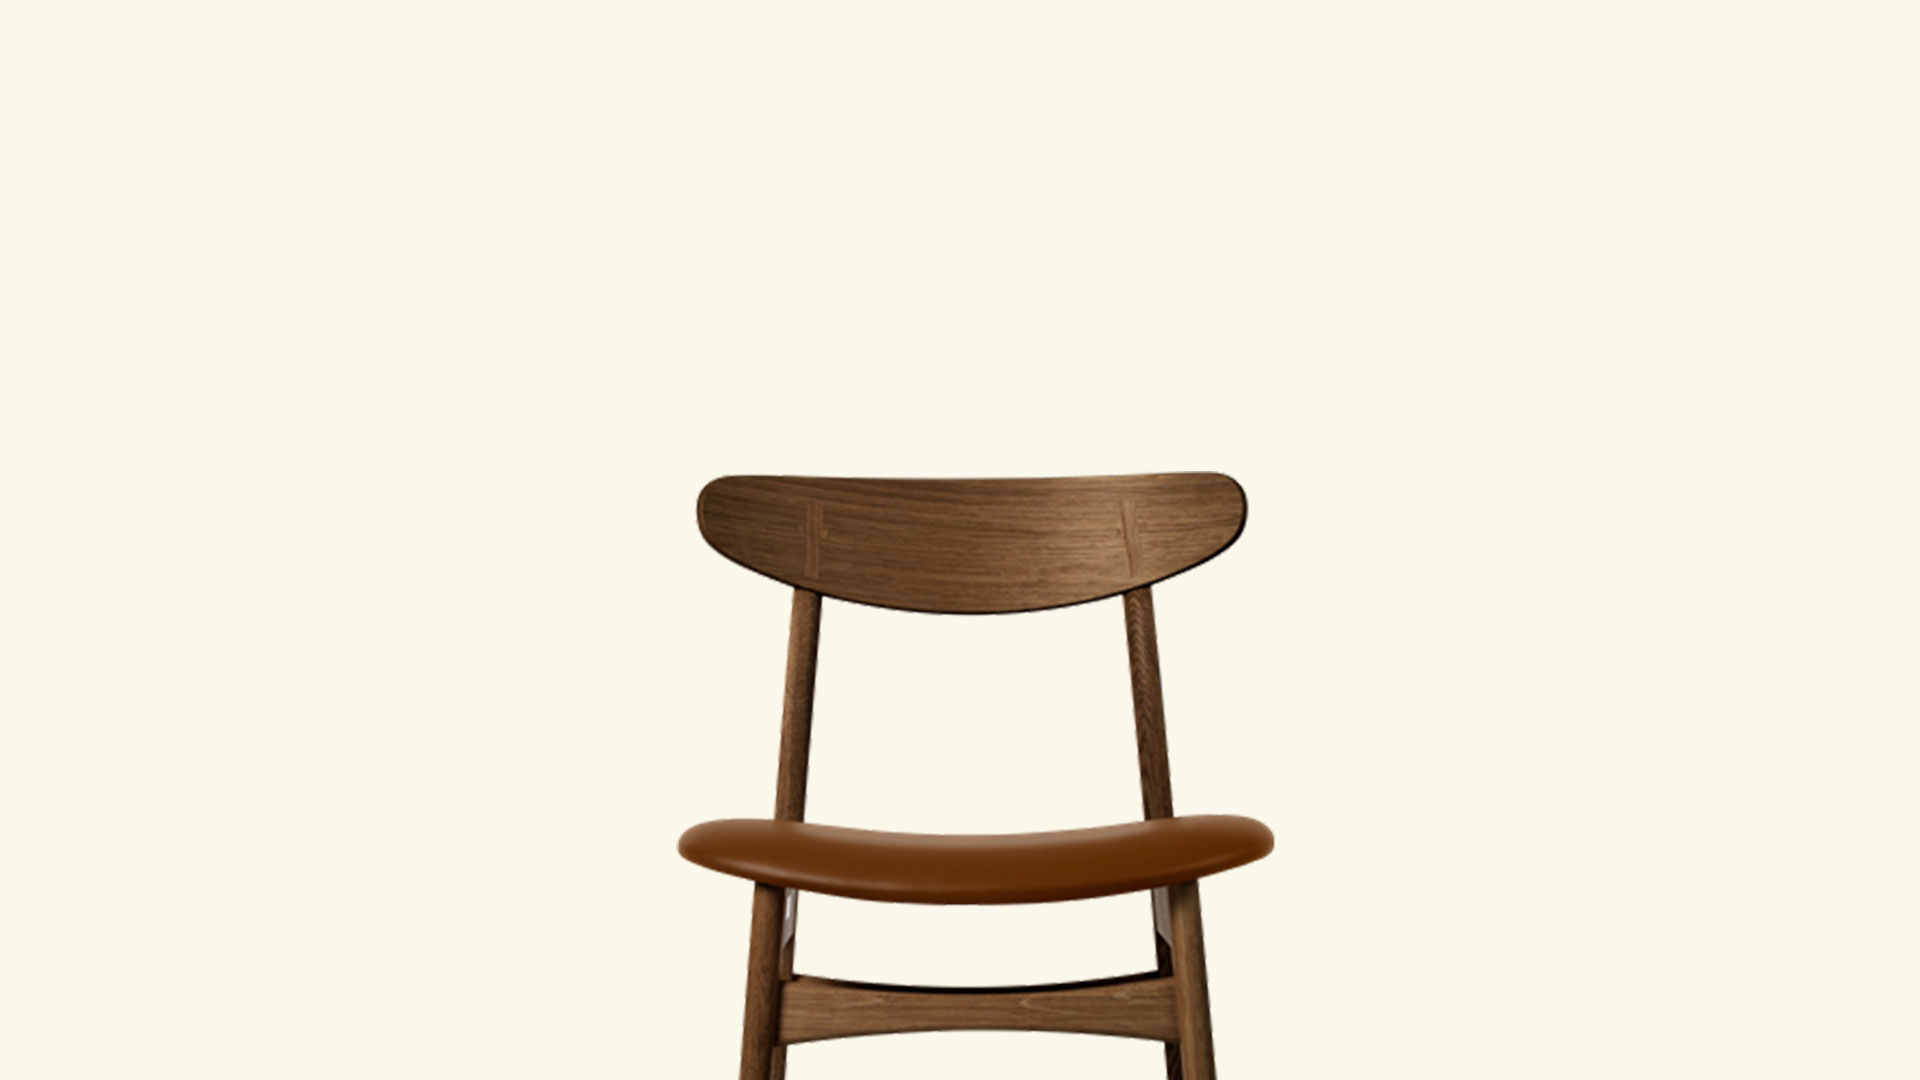
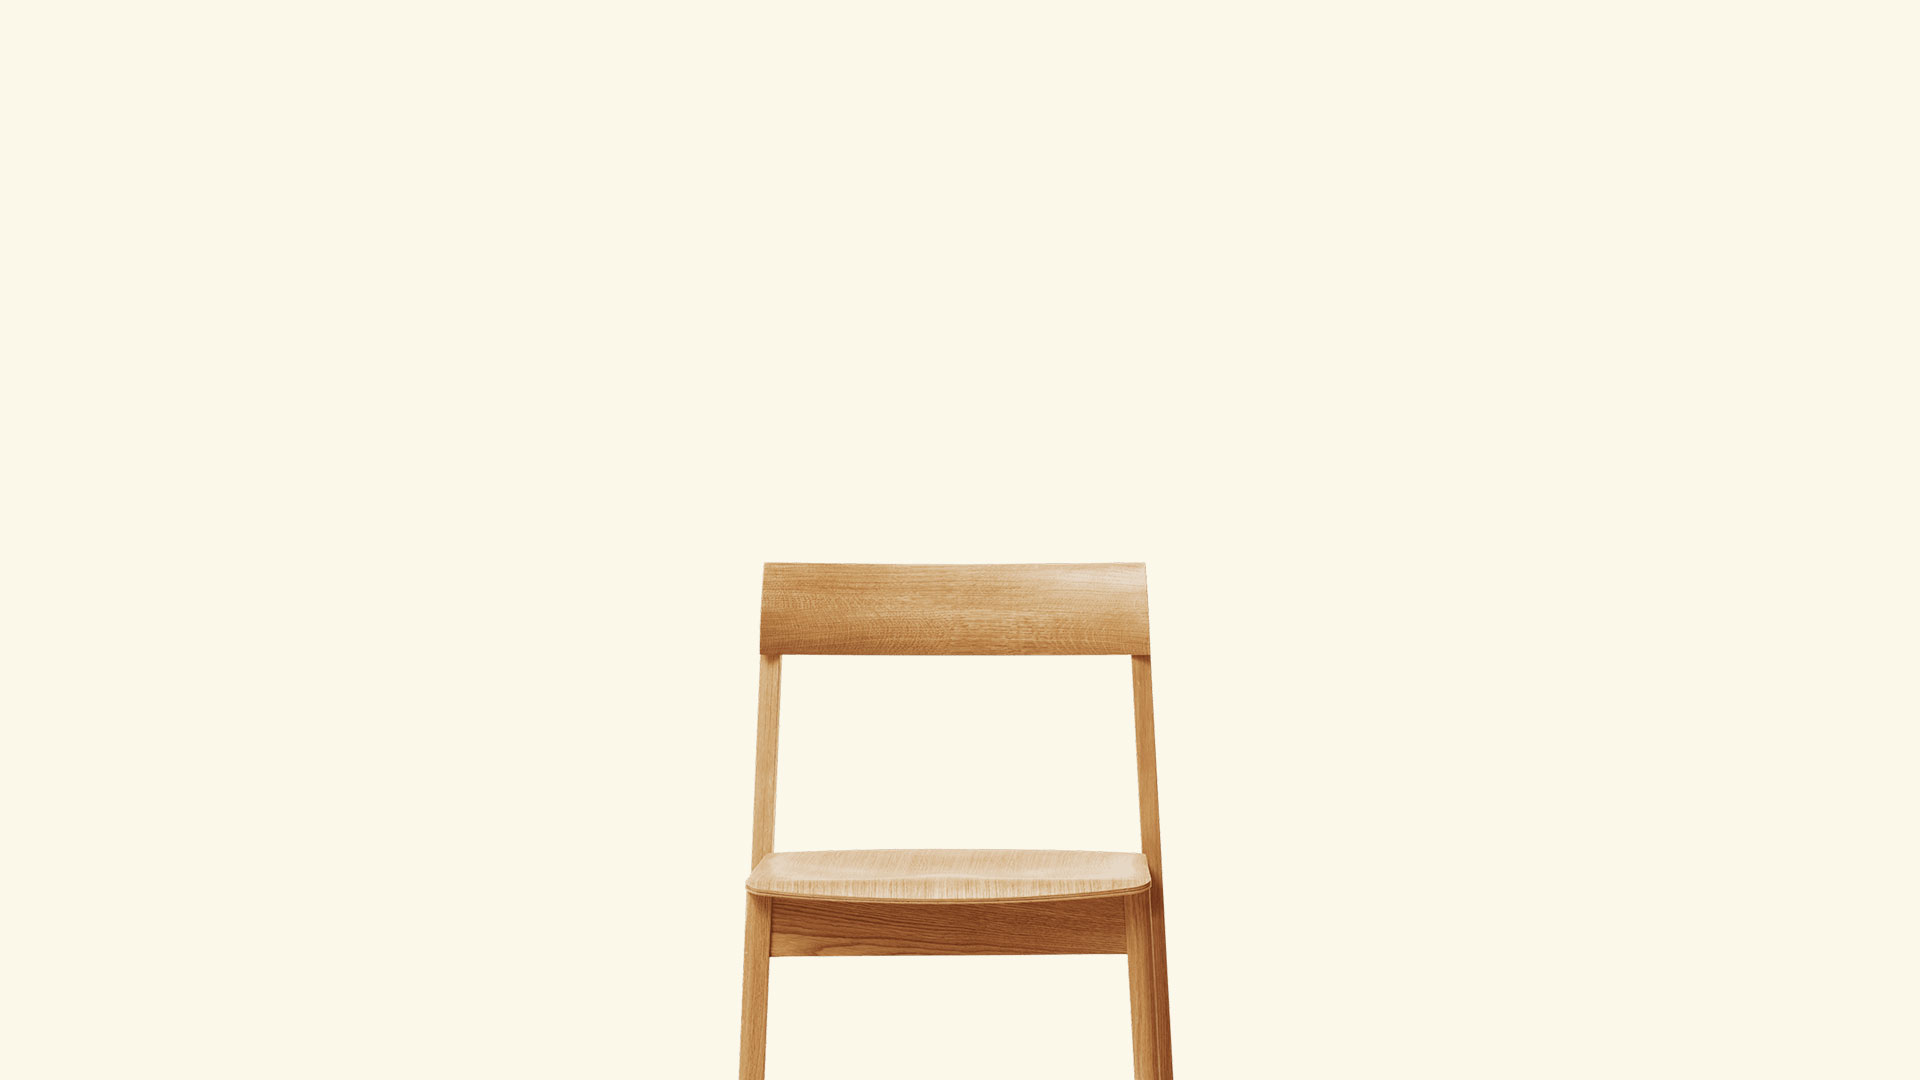
[feat] customize.html 增加文字介紹 & button [data] img > customize新增圖片

Changed region(s): [[0.3438, 0.4278, 0.6875, 1.0]]

diff --git a/src/customize.html b/src/customize.html
@@ -1,44 +1,117 @@
 <!DOCTYPE html>
 <html lang="en">
-<head>
-  @@include('layout/head.html')
-  <!-- 載入 fullpage css -->
-  <link rel="stylesheet" href="https://cdnjs.cloudflare.com/ajax/libs/fullPage.js/3.1.2/fullpage.css">
-</head>
-<body>
+  <head>
+    @@include('layout/head.html')
+    <!-- 載入 fullpage css -->
+    <link
+      rel="stylesheet"
+      href="https://cdnjs.cloudflare.com/ajax/libs/fullPage.js/3.1.2/fullpage.css"
+    />
+    <!-- 字型 google font -->
+    <link rel="preconnect" href="https://fonts.googleapis.com" />
+    <link rel="preconnect" href="https://fonts.gstatic.com" crossorigin />
+    <link
+      href="https://fonts.googleapis.com/css2?family=Noto+Serif+TC:wght@400;600&display=swap"
+      rel="stylesheet"
+    />
+  </head>
+  <body>
+    @@include('layout/login.html')
+    @@include('layout/nav.html')
+    <div id="customize" class="fullpage">
+      
+      <section id="sec1" class="section">
+        <div class="container">
+          <div class="row col-md-12 text-center">
+            <h1 class="title">
+              客製一張家具<br />
+              <h3>
+                森活木工精選了三款家具與木材<br />
+                讓每位顧客都可以擁有屬於自己的家具
+              </h3>
+            </h1>
+            <p>Scroll down</p>
+            <div class="mouse_scroll">
+              <div class="mouse">
+                <div class="wheel"></div>
+              </div>
+              <div>
+                <span class="m_scroll_arrows unu"></span>
+                <span class="m_scroll_arrows doi"></span>
+                <span class="m_scroll_arrows trei"></span>
+              </div>
+          </div>
+          </div>
+        </div>
+      </section>
 
-  <section id="customize">
+      <section id="sec2" class="section">
+        <div class="container">
+          <div class="row justify-content-center text-center">
+            <div class="col-lg-10 col-sm-12">
+              <h1>
+                原木圓桌<br />
+                <h3>
+                  圓桌被認為比起方桌更能縮短人與人的距離<br/>
+                  由職人打造出簡單流線的設計，請務必參考看看。
+                </h3>
+              </h1>
+              <button type="button" class="btn btn-primary btn-sm" id="sec2_btn">前往客製</button>
+            </div>
+            
+          </div>
+        </div>
+      </section>
+
+      <section id="sec3" class="section">
+        <div class="container">
+          <div class="row justify-content-center text-center">
+            <div class="col-lg-10 col-sm-12">
+              <h1>
+                原木收納櫃<br />
+                <h3>
+                  乾淨俐落的線條呈現家具的美感<br/>
+                  輕鬆營造出自然的居家品味。
+                </h3>
+              </h1>
+              <button type="button" class="btn btn-primary btn-sm" id="sec3_btn">前往客製</button>
+            </div> 
+          </div>
+        </div>
+      </section>
+
+      <section id="sec4" class="section">
+        <div class="container">
+          <div class="row justify-content-center text-center">
+            <div class="col-lg-10 col-sm-12">
+              <h1>
+                原木餐椅<br />
+                <h3>
+                  看似簡單的設計森活木工也以不妥協的精神製作<br/>
+                  是一張讓人感到舒適的優良椅子。
+                </h3>
+              </h1>
+              <button type="button" class="btn btn-primary btn-sm" id="sec4_btn">前往客製</button>
+            </div>
+          </div>
+      </section>
+    </div>
+
+    @@include('layout/footer.html')
     
-    <div class="sec1">
-      <h1>客製一張家具</h1>
-    </div>
+    <!-- 載入 fullpage.js -->
+    <script src="https://cdnjs.cloudflare.com/ajax/libs/fullPage.js/3.1.2/fullpage.js"></script>
 
-    <div class="sec2">
-      <h1>The 2nd section</h1>
-    </div>
-
-    <div class="sec3">
-      <h1>The 3rd section</h1>
-    </div>
-    
-    <div class="sec4">
-      <h1>The 4th section</h1>
-    </div>
-  </section>
-
-  @@include('layout/footer.html')
-
-  <!-- 載入 fullpage.js -->
-  <script src="https://cdnjs.cloudflare.com/ajax/libs/fullPage.js/3.1.2/fullpage.js"></script>
-  <script>
-
-    new fullPage('#customize', {
-      autoScrolling: true,
-      navigation: true,
-      navigationTooltips:['Top', 'Chair', 'Cabinet','Table'],
-      scrollingSpeed: 1000,
-    })
-
-  </script>
-</body>
+    <!-- fullpage -->
+    <script>
+      $(document).ready(function () {
+        $("#customize").fullpage({
+          navigation: true,
+          scrollingSpeed: 700,
+          navigationTooltips: ["Top", "Table", "Cabinet", "Chair"],
+          showActiveTooltip: true,
+        });
+      });
+    </script>
+  </body>
 </html>

diff --git a/src/sass/page/_customize.scss b/src/sass/page/_customize.scss
@@ -1,42 +1,74 @@
-#customize{
-    width: 100%;
-
+#customize {
+  width: 100%;
+  .section {
     h1{
-        text-align: center;
-        color: #76706A;
+      font-size: $h1;
+      text-align: center;
+      color: $p_color1;
+      font-weight: bold;
+      margin-bottom: 10px;
     }
-    .sec1{
-        background-image: url(/src/img/customize/5.jpg);
-        background-size: cover;
-        background-position: center center;
-        background-repeat: no-repeat;
-        height: 100vh;
-        width: 100%;
+  }
+
+  #sec1 {
+    @extend .section;
+    background-image: url(/src/img/customize/1.jpg);
+    background-size: cover;
+    background-position: center center;
+    background-repeat: no-repeat;
+    // height: 100vh;
+    width: 100%;
+    z-index: 2;
+    .title {
+      margin-bottom: 10px;
     }
-    .sec2{
-        background-image: url(/src/img/customize/2.jpg);
-        background-size: cover;
-        background-position: center center;
-        background-repeat: no-repeat;
-        height: 100vh;
-        width: 100%;
+    .mouse_scroll {
+      display: block;
+      margin: 0 auto;
+      width: 24px;
+      height: 100px;
+      margin-top: 125px;
     }
-    .sec3{
-        background-image: url(/src/img/customize/3.jpg);
-        background-size: cover;
-        background-position: center center;
-        background-repeat: no-repeat;
-        height: 100vh;
-        width: 100%;
+  }
+
+  #sec2, #sec3, #sec4{
+    @extend .section;
+    background-size: cover;
+    background-position: center center;
+    background-repeat: no-repeat;
+    .container {
+      background-color: $s_color2;
+      opacity: .8;
     }
-    .sec4{
-        background-image: url(/src/img/customize/4.jpg);
-        background-size: cover;
-        background-position: center center;
-        background-repeat: no-repeat;
-        height: 100vh;
-        width: 100%;
-    }
-    
+  }
+
+  #sec2 {
+    background-image: url(/src/img/customize/2.jpg);
+  }
+
+  #sec3 {
+    background-image: url(/src/img/customize/3.jpg);
+  }
+
+  #sec4 {
+    background-image: url(/src/img/customize/4.jpg);
+  }
 }
 
+#sec2_btn, #sec3_btn, #sec4_btn{
+  width: 150px;
+  background-color: $btn_color;
+  border-radius: 3px;
+  color: $p_color2;
+  padding: 5px;
+  cursor: pointer;
+  margin: 20px 0;
+}
+
+span {
+  background: $btn_color !important;
+}
+
+#fp-nav ul li .fp-tooltip {
+  color: $btn_color !important;
+}
